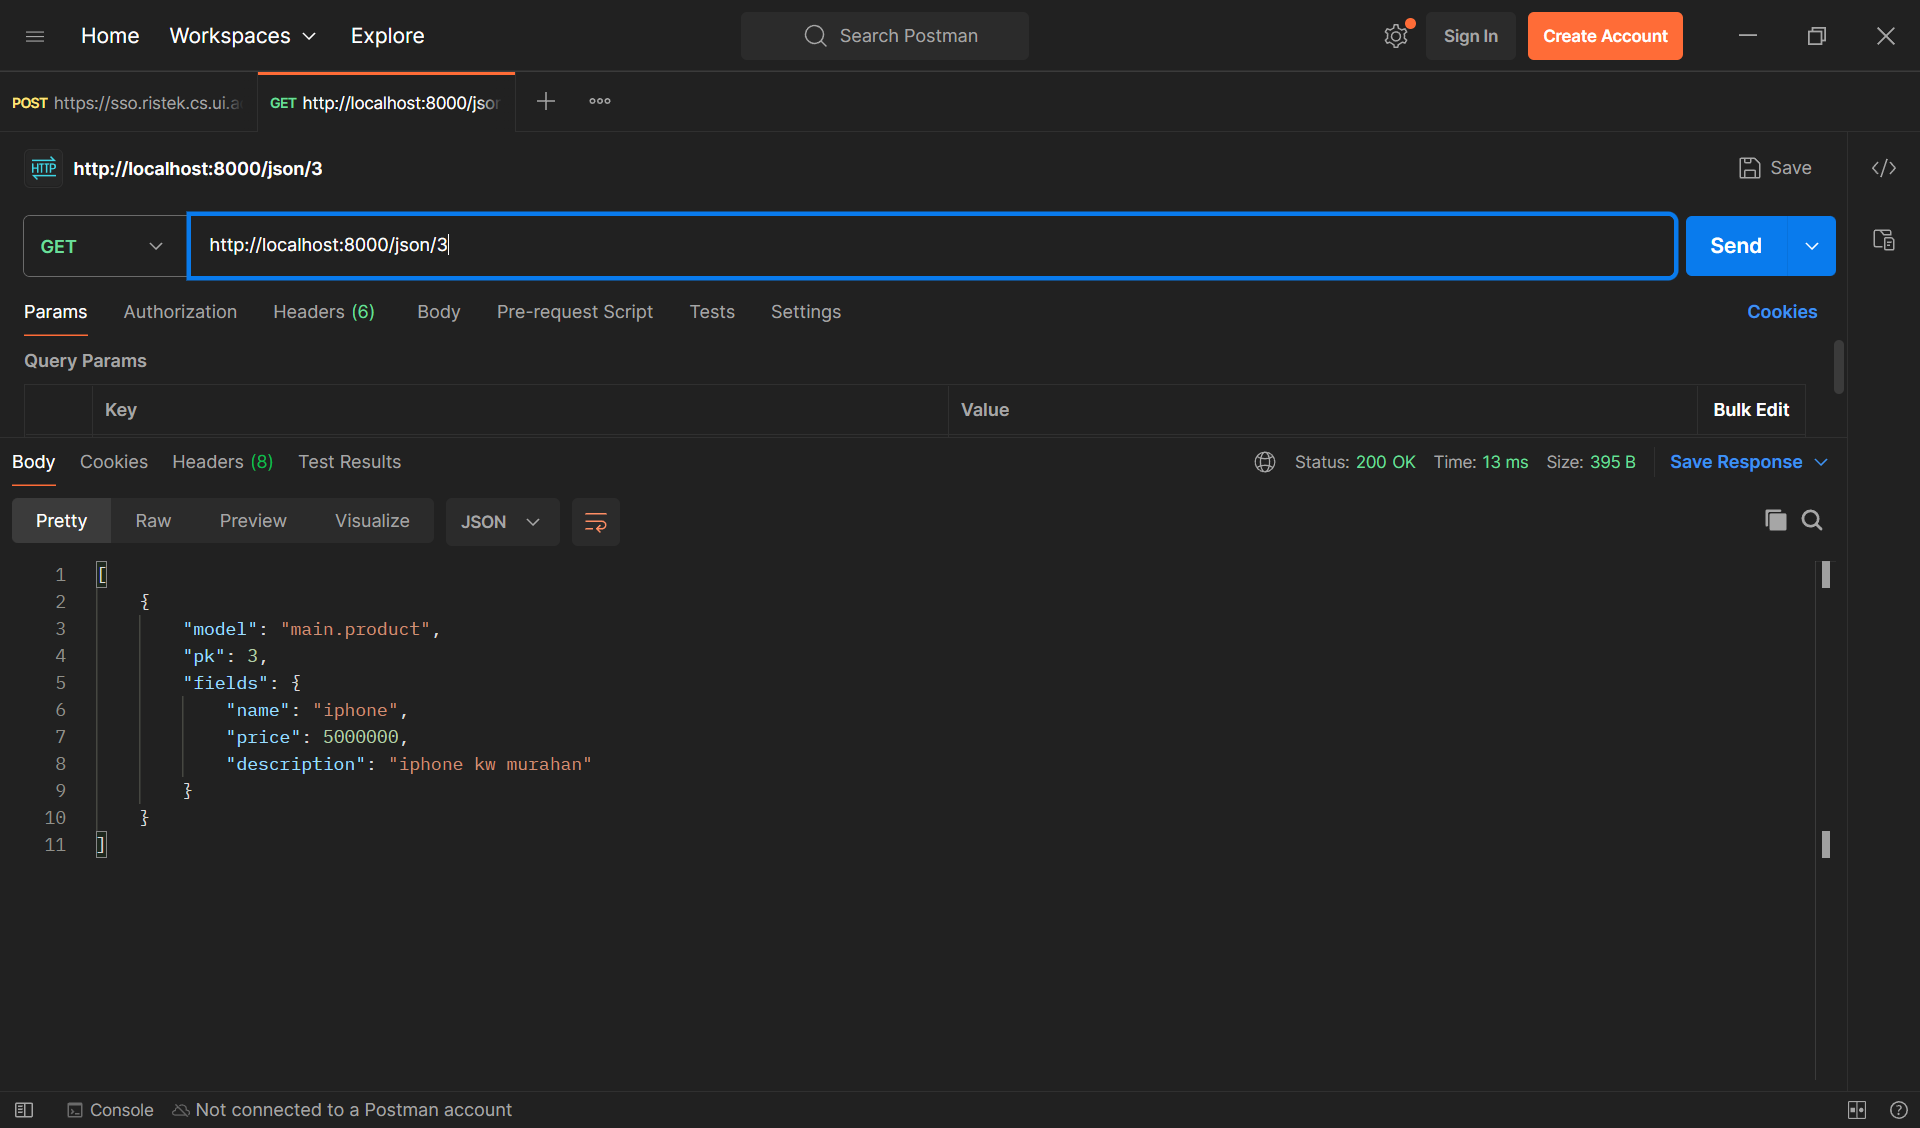
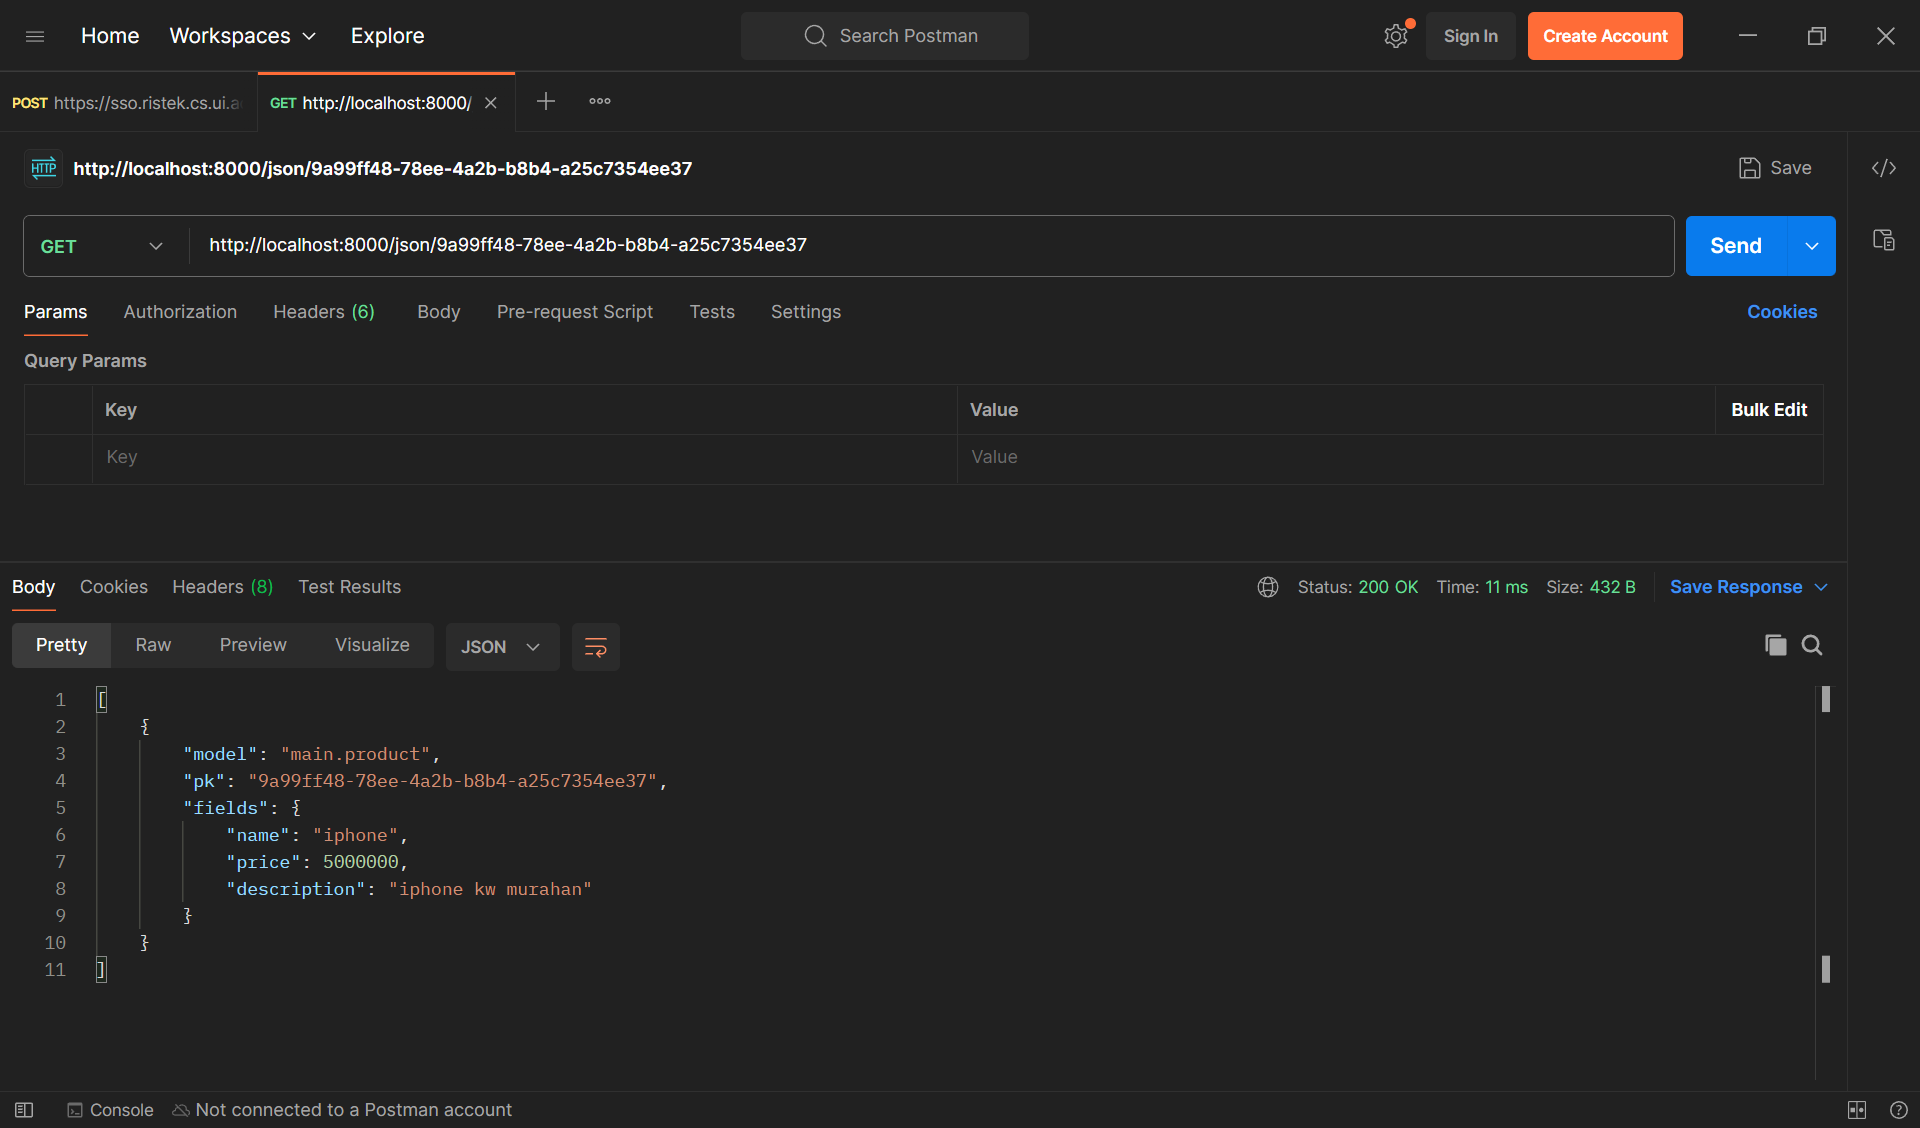
menggunakan UUID pada model

diff --git a/main/templates/main.html b/main/templates/main.html
@@ -1,6 +1,4 @@
 {% extends "base.html" %} {% block content %}
-<h1>Mental Health Tracker</h1>
-
 <h5>Nama Aplikasi:</h5>
 <p>{{ nama_app }}</p>
 <h5>Nama:</h5>

diff --git a/main/migrations/0002_alter_product_id.py b/main/migrations/0002_alter_product_id.py
@@ -1,0 +1,19 @@
+# Generated by Django 5.1.1 on 2024-09-18 00:35
+
+import uuid
+from django.db import migrations, models
+
+
+class Migration(migrations.Migration):
+
+    dependencies = [
+        ('main', '0001_initial'),
+    ]
+
+    operations = [
+        migrations.AlterField(
+            model_name='product',
+            name='id',
+            field=models.UUIDField(default=uuid.uuid4, editable=False, primary_key=True, serialize=False),
+        ),
+    ]

diff --git a/main/models.py b/main/models.py
@@ -1,7 +1,9 @@
+import uuid
 from django.db import models
 
 # Create your models here.
 class Product(models.Model):
+  id = models.UUIDField(primary_key=True, default=uuid.uuid4, editable=False)
   name = models.CharField(max_length=255)
   price = models.IntegerField()
   description = models.TextField()

diff --git a/README.md b/README.md
@@ -20,7 +20,7 @@ Method `is_valid()` berfungsi untuk memvalidasi data yang dimasukkan dalam input
 
 1. Membuat class baru yang meng-inherit class `ModelForm`, yaitu jenis form khusus pada Django yang menghubungkan form dengan model.
 
-   ```
+   ```python
    from django.forms import ModelForm
    from .models import Product
 
@@ -32,7 +32,7 @@ Method `is_valid()` berfungsi untuk memvalidasi data yang dimasukkan dalam input
 
 2. Membuat instance dari class `ProductForm` pada views, lalu mengirim instance dari form tersebut ke template.
 
-   ```
+   ```python
    def create_product(request):
      if request.method == 'POST':
        form = ProductForm(request.POST)
@@ -47,7 +47,7 @@ Method `is_valid()` berfungsi untuk memvalidasi data yang dimasukkan dalam input
 
 3. Menampilkan form pada template seperti berikut.
 
-   ```
+   ```django
    {% extends "base.html" %} {% block content %}
    <form method="post">
      {% csrf_token %}
@@ -66,7 +66,7 @@ Method `is_valid()` berfungsi untuk memvalidasi data yang dimasukkan dalam input
 
 4. Membuat 4 fungsi berikut pada views dimana keempat fungsi tersebut mengambil data dari model, lalu mengembalikannya dengan format yang sesuai menggunakan serializers.
 
-   ```
+   ```python
    def show_xml(request):
      data = Product.objects.all()
      return HttpResponse(serializers.serialize("xml", data), content_type="application/xml")
@@ -85,7 +85,7 @@ Method `is_valid()` berfungsi untuk memvalidasi data yang dimasukkan dalam input
    ```
 
 5. Menambahkan baris berikut pada list `urlpatterns` pada `urls.py` aplikasi `main` untuk melakukan routing.
-   ```
+   ```python
    path('xml/', show_xml, name='show_xml'),
    path('json/', show_json, name='show_json'),
    path('xml/<str:id>/', show_xml_by_id, name='show_xml_by_id'),
